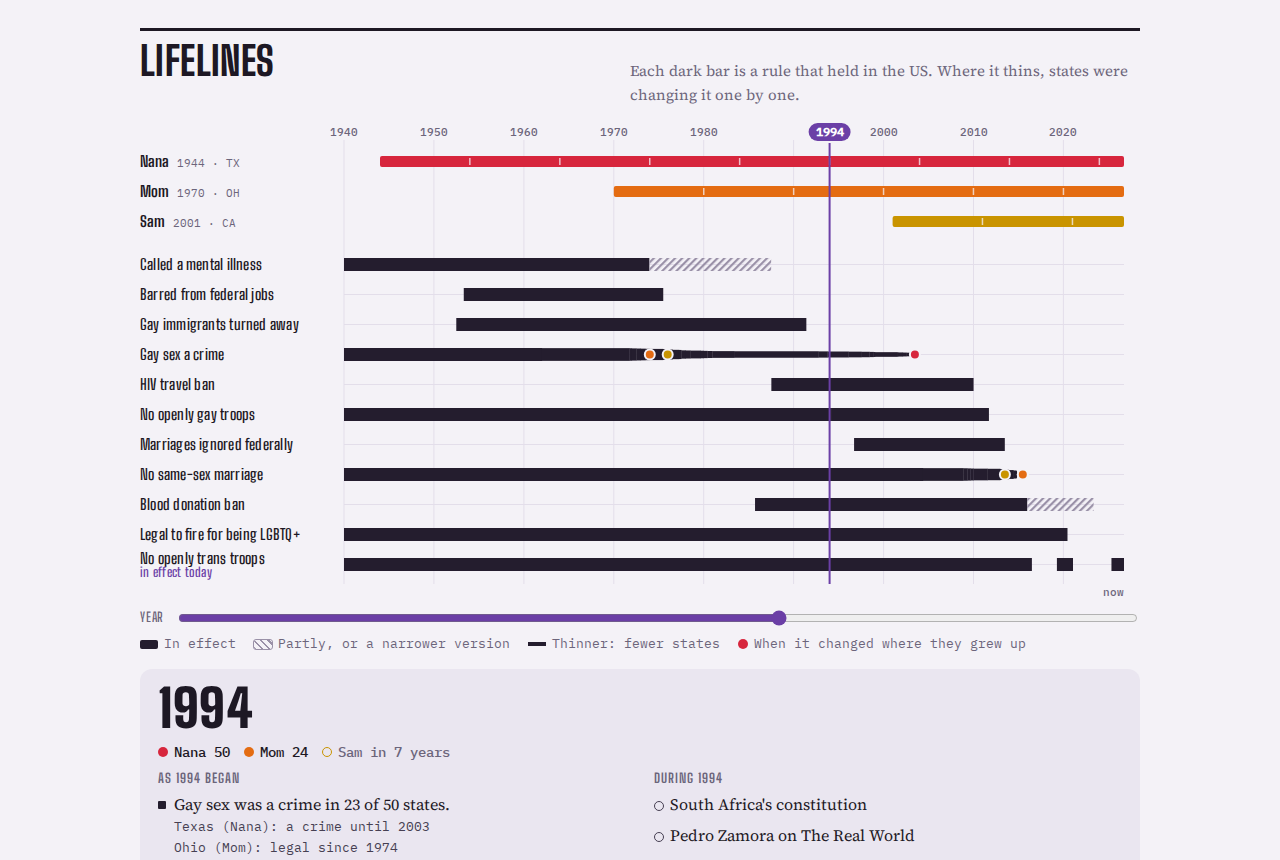
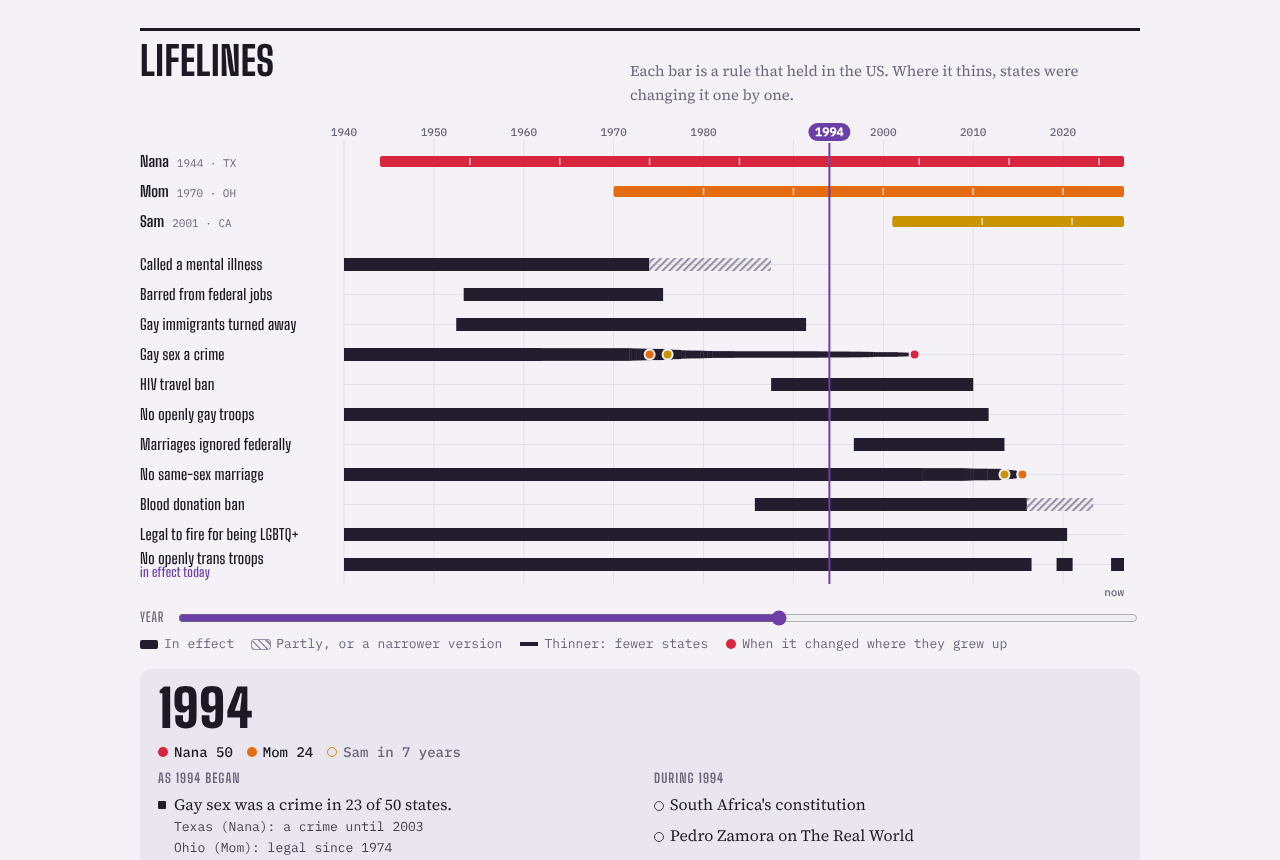
Don't call the bars dark
The line under Lifelines said "Each dark bar is a rule that held in the
US", but in the dark palette the bars are pale. It now says "Each bar". The
two README screenshots that show the line are redrawn with
tools/screenshots.mjs.

Claude-Session: https://claude.ai/code/session_01N3tHmrVtD9q2Zcak1ErX34

diff --git a/index.html b/index.html
@@ -267,7 +267,7 @@ dialog .row .right{display:flex;gap:10px;margin-left:auto}
 </div>
 
 <section id="lifelines" aria-labelledby="h-lifelines">
-  <div class="sec-h"><h2 id="h-lifelines">Lifelines</h2><p>Each dark bar is a rule that held in the US. Where it thins, states were changing it one by one.</p></div>
+  <div class="sec-h"><h2 id="h-lifelines">Lifelines</h2><p>Each bar is a rule that held in the US. Where it thins, states were changing it one by one.</p></div>
   <div class="chart-box" id="chart"></div>
   <div class="scrub"><label for="year">Year</label><input id="year" type="range" min="1920" max="2026" step="1" value="1990"></div>
   <div class="legend" aria-hidden="true">
